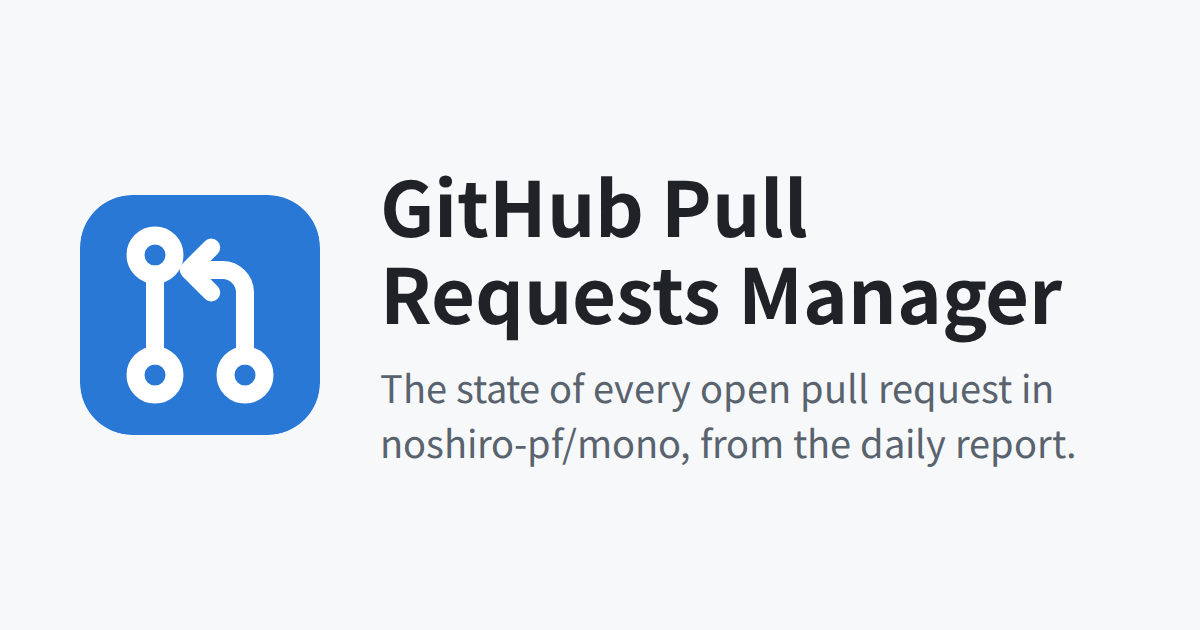
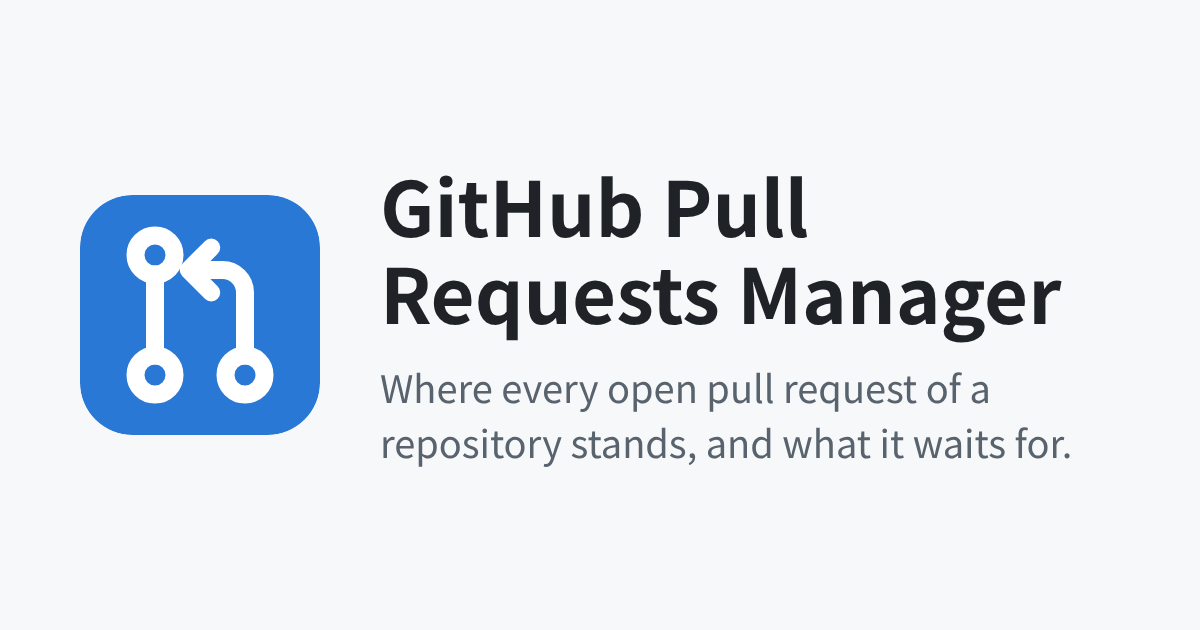
docs(pr-manager): describe PR Manager and pr-merge-queue without naming mono (#2599)
The link card and meta description of the PR Manager page said it showed
noshiro-pf/mono's pull requests "from the daily report"; it reads any
repository live. Redraw og-image.png from the new og:description.

pr-merge-queue sent `noshiro-pf-mono-tools` as its User-Agent, and the
READMEs of open-pr, pr-report and unblock-prs named `pnpm run <cmd>` and
this repository's CLAUDE.md as where their conventions are defined. They
now name the bare command and the queue's own conventions.

Claude-Session: https://claude.ai/code/session_015uv2Fb3kVzTp1KJixxDK9g

diff --git a/apps/pr-manager/index.html b/apps/pr-manager/index.html
@@ -5,7 +5,7 @@
     <meta name="viewport" content="width=device-width, initial-scale=1.0" />
     <meta
       name="description"
-      content="The state of every open pull request in noshiro-pf/mono, from the daily report."
+      content="Where every open pull request of a repository stands, and what it waits for."
     />
     <meta name="theme-color" content="#2a78d6" />
     <link rel="icon" type="image/svg+xml" href="/favicon.svg" />
@@ -31,7 +31,7 @@
     <meta property="og:title" content="GitHub Pull Requests Manager" />
     <meta
       property="og:description"
-      content="The state of every open pull request in noshiro-pf/mono, from the daily report."
+      content="Where every open pull request of a repository stands, and what it waits for."
     />
     <meta
       property="og:url"
@@ -45,7 +45,7 @@
     <meta property="og:image:height" content="630" />
     <meta
       property="og:image:alt"
-      content="GitHub Pull Requests Manager — The state of every open pull request in noshiro-pf/mono, from the daily report."
+      content="GitHub Pull Requests Manager — Where every open pull request of a repository stands, and what it waits for."
     />
     <meta property="og:locale" content="en_US" />
     <meta name="twitter:card" content="summary_large_image" />

diff --git a/libs/pr-merge-queue/src/pr-report/README.md b/libs/pr-merge-queue/src/pr-report/README.md
@@ -1,12 +1,12 @@
 # `pr-report`
 
-`pnpm run pr-report` — the state of every open pull request, in one page.
+`pr-report` — the state of every open pull request, in one page.
 
 - [日本語](#日本語)
 - [English](#english)
 
-The conventions this reads are `CLAUDE.md`'s: "CI" and the `Merge-After:`
-trailer described in `../unblock-prs/README.md`. This file
+The conventions this reads are the queue's: the required checks and the
+`Merge-After:` trailer described in `../unblock-prs/README.md`. This file
 describes what the script does with them.
 
 ## 日本語
@@ -72,8 +72,8 @@ pnpm run pr-report -- --issues-limit 10 # open な issue の最大件数
 
 ### トークン
 
-`GH_TOKEN` か `GITHUB_TOKEN` があれば（この順に）使い、無ければ無認証で読みます。mono は
-public なので無認証でも動き、1回のレポートは匿名の 60 requests/hour に収まりま
+`GH_TOKEN` か `GITHUB_TOKEN` があれば（この順に）使い、無ければ無認証で読みます。public
+なリポジトリなら無認証でも動き、1回のレポートは匿名の 60 requests/hour に収まりま
 す（PR 1本あたり約3リクエスト = 20本程度まで。issue 一覧は全体で1リクエスト）。
 
 トークンがあると変わるのは2点だけです。レート制限が 5000/hour になることと、

diff --git a/libs/pr-merge-queue/src/unblock-prs/README.md b/libs/pr-merge-queue/src/unblock-prs/README.md
@@ -2,15 +2,16 @@
 
 # `unblock-prs`
 
-`pnpm run unblock-prs` — the worker that lands the merge queue. The
+`unblock-prs` — the worker that lands the merge queue. The
 `/unblock-prs` skill fixes what it sets aside, and nothing else.
 
 - [日本語](#日本語)
 - [English](#english)
 
-The authority for the conventions this reads is `CLAUDE.md`: "CI" and
-"Commits and pull requests". This file describes what the script does with
-them.
+This file describes the conventions the queue reads — the labels,
+`Merge-After:`, stacks — and what the script does with them. A repository's
+own guidance for the skill goes in `.github/unblock-prs.md` (see the package
+[README](../../README.md)).
 
 ## 日本語
 

diff --git a/libs/pr-merge-queue/src/open-pr/README.md b/libs/pr-merge-queue/src/open-pr/README.md
@@ -2,14 +2,15 @@
 
 # `open-pr`
 
-`pnpm run open-pr` — opens the pull request for the current branch the way
-this repository wants one opened: held by `skip-ci`, and never armed.
+`open-pr` — opens the pull request for the current branch the way the
+queue wants one opened: held by `skip-ci`, and never armed.
 
 - [日本語](#日本語)
 - [English](#english)
 
-The conventions this follows are `CLAUDE.md`'s: "Commits and pull requests"
-and "CI". This file describes what the script does with them.
+The conventions this follows are the queue's, described in
+`../unblock-prs/README.md`. This file describes what the script does with
+them.
 
 ## 日本語
 

diff --git a/.changeset/pr-merge-queue-generic-wording.md b/.changeset/pr-merge-queue-generic-wording.md
@@ -1,0 +1,5 @@
+---
+'pr-merge-queue': patch
+---
+
+Identify requests to GitHub as `pr-merge-queue` rather than by the repository it was written in, and describe the commands' conventions as the queue's own rather than as one repository's.
